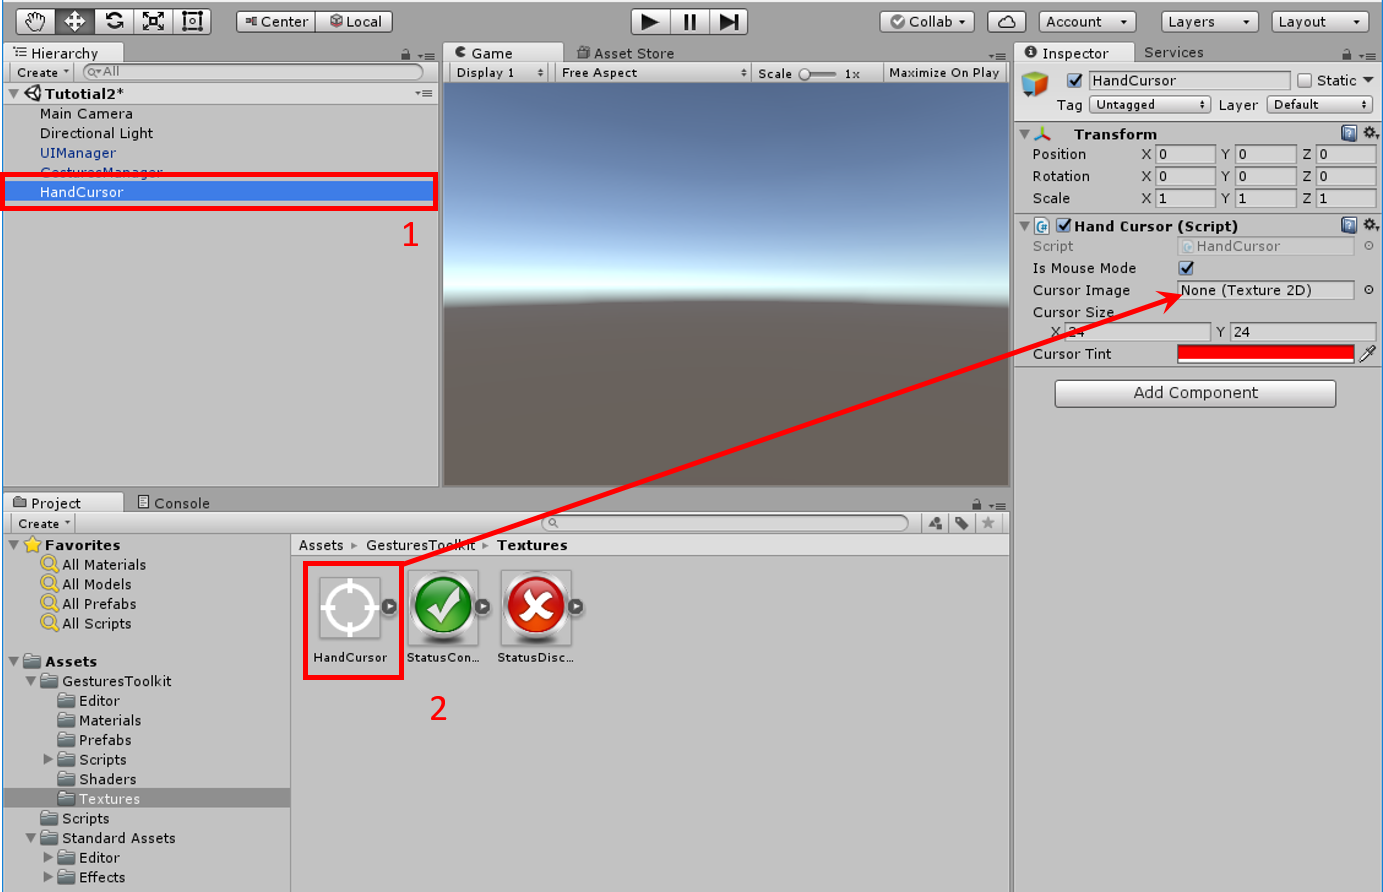
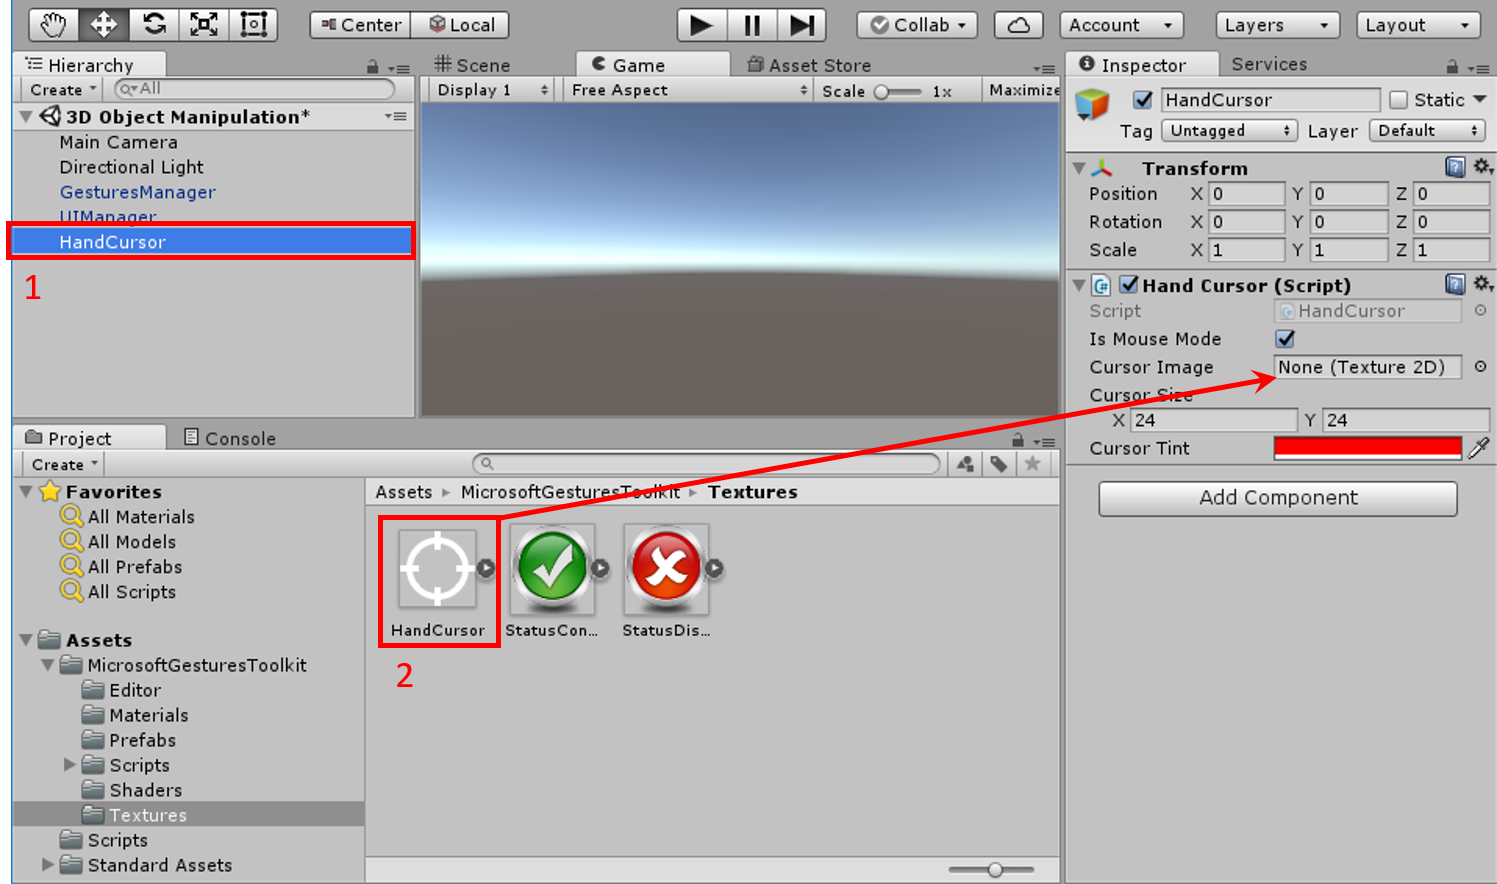
Finish writing first step of the Hand Cursor tutorial

diff --git a/unity-tutorials-3d-object-manipulation.md b/unity-tutorials-3d-object-manipulation.md
@@ -1,0 +1,73 @@
+# 3D Object Manipulation
+
+This tutorial will introduce you to using gesture and skeleton input to enrich the user interface of the games and applications you make with Unity. In this tutorial we will create a 3D cursor controlled by the hand. We will use this cursor to select objects and move them in 3D space.
+
+The final version of the Unity project obtained in this tutorial can be found in our open-source [samples GitHub repository](https://github.com/Microsoft/Gestures-Samples). After you clone the repository, follow these steps to run the final  product of this tutorial:
+
+1. Launch Unity, in the **Projects** tab select **Open**.
+1. Browse to the **Unity\GesturesTutorial** directory within the cloned repository.
+1. When the project loads, go to the **Project** window and select the **Assets** directory.
+1. Double-click the **3D Object Manipulation** scene in the **Assets** directory.
+1. Press the play button (or **Ctrl+P**) to run the scene.
+
+This tutorial assumes you have basic familiarity with the C# programming language and some experience with the Unity IDE - we expect you to know how to create projects, scenes, game objects and scripts. The tutorial will take approximately 30 minutes to complete.
+
+## Prerequisites
+
+Complete the [introduction tutorial](unity-tutorials-introduction.md#system-requirements).
+
+## Step 1 - Hand Cursor
+
+1. Open the project you've created in the [introduction tutorial](unity-tutorials-introduction.md#system-requirements). Press **Ctrl+N** to create a new scene and **Ctrl+S** to save the scene, naming it **3D Object Manipulation**.
+
+1. Like in [step 2 from the introduction tutorial](unity-tutorials-introduction.md#step-2-connecting-to-the-gestures-service), add the **GestureManager** and **UIManager** prefabs to the scene.
+
+1. We will start by drawing a cursor based on the mouse position. We will later replace the mouse position with the hand position.
+
+    Create an empty game object and a corresponding C# script, name both **HandCursor** and associate between them by adding the script as a component to the game object (refer to [step 3 in the introduction tutorial](unity-tutorials-introduction.md#step-3-creating-a-acript-that-generate-new-3d-primitives-in-the-scene) to read about associating a script with a game object).
+
+1. Open the **HandCursor** script in Visual Studio (double click the script icon in the **Project** window) and replace its contents with the following code:
+
+    [!code-csharp[HandCursor](CodeSnippets\HandCursor.cs)]
+
+    As you can see, for now, the **HandCursor** methods are not yet implemented, they just contain place-holder comments.
+
+1. To control the cursor using the mouse only, replace the **GetCursorScreenPosition()** method with the following code:
+
+    [!code-csharp[GetCursorPosition](CodeSnippets\GetCursorPosition.cs)
+
+    To draw the cursor in the correct position every time the screen is refreshed, replace the contents of **OnGUI()** with:
+
+    [!code-csharp[OnGui](CodeSnippets\OnGui.cs)]
+
+1. We will use the **HandCursor.png** texture, provided with the [Project Prague toolkit for Unity](https://github.com/Microsoft/Gestures-Samples/blob/master/Unity/Microsoft.Gestures.Toolkit.unitypackage), as our cursor image. Select the **HandCursor** game object in the **Hierarchy** window, locate the **HandCursor.png** under **MicrosoftGesturesToolkit/Textures** in the **Project** window and drag-and-drop it to the **Cursor Image** box in the **Inspector** window:
+
+    ![Set HandCursor Image](Images\UnitySetHandCursorImage.png)
+
+1. Play the scene now. Whenever the mouse pointer is within the scene borders, you will see the red cursor that we have programmed following it:
+
+    ![Cursor following mouse](Images\UnityMouseCursor.png)
+
+1. In order to use your hand to control the cursor, we first need to obtain access to the hand-skeleton information. The [**Gestures Service**](getting-started-gestures-service.md) computes the hand-skeleton and communicates it to all subscribing clients on a frame-by-frame basis. The **GestureManager** game object in our scene acts as a client of the **Gestures Service**, its **RegisterToSkeleton()** and **UnregisterFromSkeleton()** methods allow us to subscribe and unsubscribe to the hand-skeleton stream.
+
+    To receive hand-skeleton information whenever the **HandCursor** game object is active, override its **OnEnbale()** and **OnDisable()** methods with the following code:
+
+    [!code-csharp[OnGui](CodeSnippets\OnEnableOnDisable.cs)]
+
+1. The final task for this step is to convert the palm-position of the hand, arriving from the **Gestures Service** in depth-camera 3D coordinates, to the screen 2D coordinates.
+
+    The hand-skeleton is provided in units of millimeters, in the following left-handed coordinate system:
+
+    ![Hand skeleton coordinate system](Images\UnityHandSkeletonCoordinates.png)
+
+    Ideally, we would like the **Main Camera** in our scene to see your hand from the perspective of your eyes. If we can achieve this - our 3D cursor's projection to the screen will follow your hand in a way that feels intuitive. 
+
+    In an attempt to approximate the desired perspective, we will use the following constants to map the hand-skeleton, given in depth-camera view-space, to the 3D cursor, given in **Main Camera** view-space. Add these public members to **HandCursor.cs**:
+
+    [!code-csharp[OnGui](CodeSnippets\ScaleAndOffset.cs)]
+
+    With this preparation, we are ready to compute the actual conversion of the palm-position to cursor position. Update **GetCursorScreenPosition()** with the following contents:
+
+    [!code-csharp[OnGui](CodeSnippets\GetCursorScreenPosition.cs)]
+
+1. In the **Inspector** window of the **HandCursor** game object, disable the **"Is Mouse Mode"** checkbox. This will activate the hand-tracking branch of the if-statement in **GetCursorScreenPosition()**. play the scene and raise your right hand in front of the depth-camera. You should be able to control the cursor by moving your hand.

diff --git a/unity-tutorials-introduction.md b/unity-tutorials-introduction.md
@@ -2,7 +2,7 @@
 
 This tutorial will introduce you to adding gestures to a Unity application. You will create a simple Unity project that generates a random 3D-primitive every time the user executes a certain gesture.
 
-This tutorial assumes you have basic familiarity with the C# programming language. It should take you approximately 20 minutes to complete the tutorial.
+This tutorial assumes you have basic familiarity with the C# programming language. We do not assume you are familiar with the Unity editor. It should take you approximately 20 minutes to complete the tutorial.
 
 The final version of the Unity project obtained in this tutorial can be found in our open-source [samples GitHub repository](https://github.com/Microsoft/Gestures-Samples). After you clone the repository, follow these steps to run the final  product of this tutorial:
 
@@ -49,7 +49,8 @@ Refer to our [FAQ page](faq.md#i-have-visual-studio-2017-and-i-would-like-to-use
 
     ![Save scene](Images\UnitySaveScene.png)
 
-    We recommend you save the scene (using **Ctrl+S**) at the end of every tutorial step.
+> [!TIP]
+> It's a good practice to save the scene from time to time to avoid losing your work. We recommend you save the scene (using **Ctrl+S**) at the end of every tutorial step.
 
 ## Step 2 - Connecting to the Gestures Service
 
@@ -109,7 +110,7 @@ To demonstrate how gestures can be used in a Unity game, we will now add a Unity
     ![Ptimitives being generateded](Images\UnityObjectSpawn.png)
 
 > [!TIP]
-> Take a look at the **Console** window of the Unity editor. You will find various messages, warnings and errors there, generated by both our code and the Unity IDE.
+> Take a look at the **Console** window of the Unity editor. You will find various messages, warnings and errors there, generated by both our code and the Unity IDE (integrated development environment).
 
 ## Step 4 - Using a Gesture to Generate New 3D-Primitives in the Scene
 
@@ -125,8 +126,8 @@ In this final step, we will create the necessary wiring so that you can use a ge
 
     ![GestureTrigger inspector](Images\UnityGestureTriggerInspector.png)
 
-    The sections of the UI, numbered 1 to 4 above, allow you to configure a gesture and its effect:
-    
+    The sections of the UI (user interface), numbered 1 to 4 above, allow you to configure a gesture and its effect:
+
     <br><table>
     <tr><td>1</td><td>Check this box to specify a custom gesture in XAML language, or</td></tr>
     <tr><td>2</td><td>Select a gesture from a set of predefined stock-gestures that we have prepared for your convenience.</td></tr>

diff --git a/TOC.md b/TOC.md
@@ -4,7 +4,7 @@
 # Tutorials
 ## Unity
 ### [Introduction](unity-tutorials-introduction.md)
-### [3D Object Manipulation](unity-tutorials-3d-hand-cursor.md)
+### [3D Object Manipulation](unity-tutorials-3d-object-manipulation.md)
 # [Troubleshooting](troubleshooting-camera.md)
 ## [RealSense™](troubleshooting-RealSense-camera.md)
 ## [Kinect v2](troubleshooting-Kinect-camera.md)
